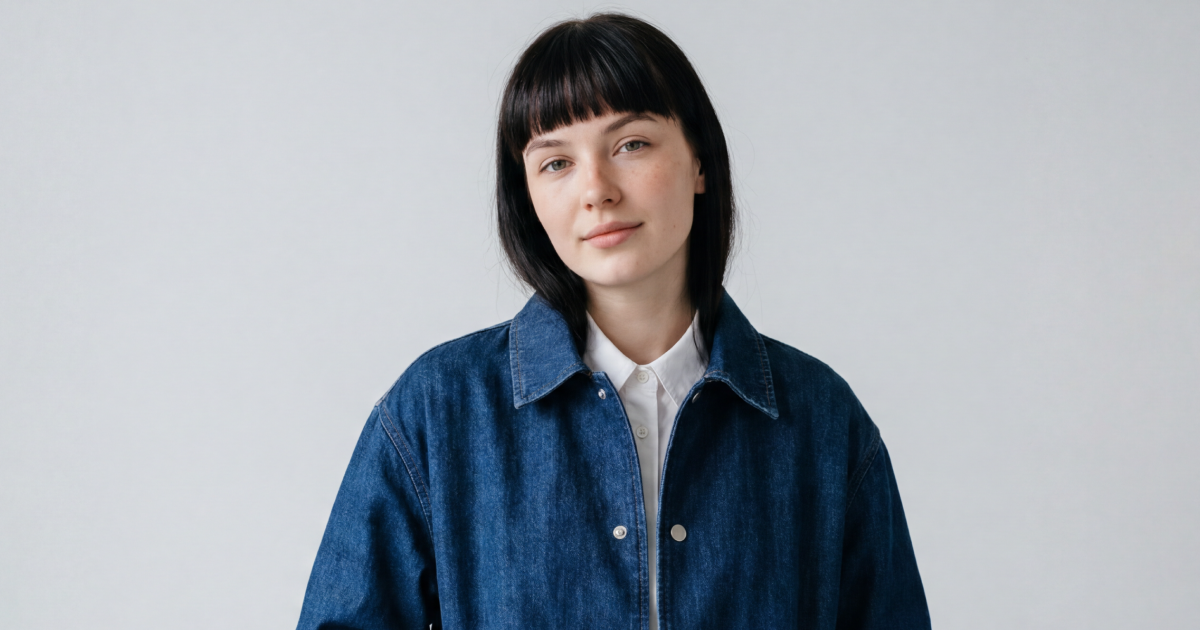
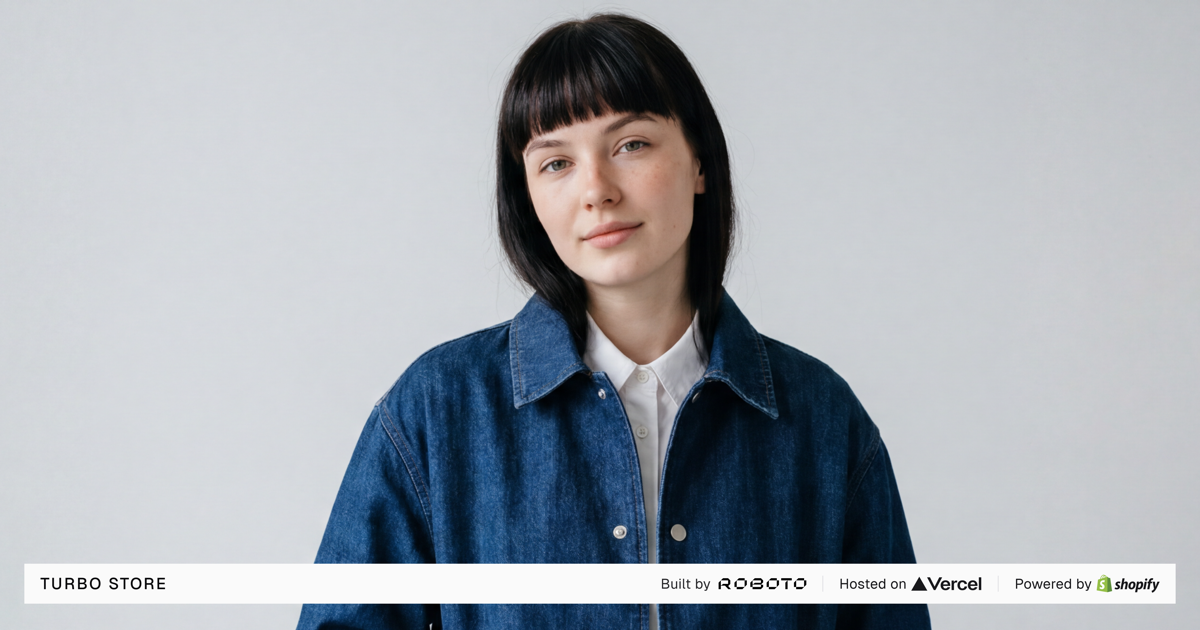
docs: sync README and CLAUDE.md with the repo

Changed region(s): [[0.0, 0.8746, 0.9867, 0.9651]]

diff --git a/CLAUDE.md b/CLAUDE.md
@@ -58,7 +58,7 @@ packages/
 1. **GROQ queries** defined with `defineQuery` in `packages/sanity/src/query.ts` — composable fragments for images, links, rich text, page builder blocks
 2. **`sanityFetch()`** from `packages/sanity/src/live.ts` (via `next-sanity/defineLive`) — used in RSC pages for data fetching with live preview support
 3. **Page Builder** (`apps/web/src/components/pagebuilder.tsx`) — client component mapping `_type` → React section component via `BLOCK_COMPONENTS` record. Uses `useOptimistic` from `@sanity/visual-editing` for live editing
-4. **Section components** in `apps/web/src/components/sections/` — `hero`, `cta`, `faq-accordion`, `feature-cards-with-icon`, `subscribe-newsletter`, `image-link-cards`
+4. **Section components** in `apps/web/src/components/sections/` — `hero`, `cta`, `collection-banner`, `editorial-two-up`, `explore-categories`, `faq-accordion`, `faq-categories`, `feature-cards-with-icon`, `featured-products`, `image-link-cards`, `layers-showcase`, `subscribe-newsletter` (plus `faq-entry`, a shared child of the two FAQ blocks)
 5. **Types** auto-generated: run `pnpm --filter studio type` → outputs to `packages/sanity/src/sanity.types.ts`
 
 ### Adding a New Page Builder Block
@@ -73,8 +73,8 @@ packages/
 
 ### Sanity Studio Structure
 
-- **Documents**: `blog`, `page`, `faq`, `author`, `product`, `collection`, `productVariant`, `redirect`
-- **Singletons**: `homePage`, `blogIndex`, `settings`, `footer`, `navbar`
+- **Documents**: `blog`, `page`, `faq`, `author`, `category`, `product`, `collection`, `productVariant`, `redirect`
+- **Singletons**: `homePage`, `blogIndex`, `collectionsIndex`, `settings`, `footer`, `navbar`, `promoBanner`
 - **Shopify objects**: `shopifyProduct`, `shopifyProductVariant`, `shopifyCollection`, `inventory`, `option`, `priceRange`, etc.
 - **Blueprint** (`sanity.blueprint.ts`): auto-redirect function — creates redirect documents on slug change
 
@@ -99,9 +99,14 @@ packages/
 
 ## Environment Variables
 
-**Web** (`apps/web/.env`):
+**Web** (`apps/web/.env`) — see `apps/web/.env.example`; all of these are validated in `packages/env/src/{client,server}.ts`, so a missing one fails the build rather than the request:
+
 - `NEXT_PUBLIC_SANITY_PROJECT_ID`, `NEXT_PUBLIC_SANITY_DATASET`, `NEXT_PUBLIC_SANITY_API_VERSION`, `NEXT_PUBLIC_SANITY_STUDIO_URL`
 - `SANITY_API_READ_TOKEN`, `SANITY_API_WRITE_TOKEN`
+- `SHOPIFY_STORE_DOMAIN`, `SHOPIFY_STOREFRONT_ACCESS_TOKEN` — required; `SHOPIFY_API_VERSION` defaults to `2025-01`
+- `NEXT_PUBLIC_STORE_CURRENCY` — ISO 4217, defaults to `GBP`
+- `NEXT_PUBLIC_SITE_URL` — canonical origin, no trailing slash. Checked _before_ the Vercel vars, so it also overrides the generated `*.vercel.app` URL. Required off Vercel: `getBaseUrl()` otherwise falls back to `localhost:3000` and every canonical, OG URL and sitemap entry ships pointing there
 
 **Studio** (`apps/studio/.env`):
+
 - `SANITY_STUDIO_PROJECT_ID`, `SANITY_STUDIO_DATASET`, `SANITY_STUDIO_TITLE`, `SANITY_STUDIO_PRESENTATION_URL`

diff --git a/README.md b/README.md
@@ -4,7 +4,9 @@ A production-ready headless commerce starter built with Shopify, Sanity, and Nex
 
 Built by [Roboto Studio](https://robotostudio.com/services/shopify) and used in production client builds.
 
-![Turbo Start Shopify](https://raw.githubusercontent.com/robotostudio/turbo-start-shopify/main/turbo-start-sanity-og.png)
+![Turbo Start Shopify](https://raw.githubusercontent.com/robotostudio/turbo-start-shopify/main/turbo-start-shopify-og.jpg)
+
+**[Live demo →](https://turbo-start-shopify-web.vercel.app)**
 
 [![Node.js](https://img.shields.io/badge/node-%3E%3D24.10-brightgreen)](https://nodejs.org/)
 [![pnpm](https://img.shields.io/badge/pnpm-11.24-orange)](https://pnpm.io/)
@@ -17,7 +19,7 @@ Built by [Roboto Studio](https://robotostudio.com/services/shopify) and used in 
 
 - **Monorepo with Turborepo** — shared packages, fast builds, one `pnpm dev` to run everything
 - **Next.js 16 App Router** — React Server Components, React Compiler, Turbopack, dynamic OG images
-- **Sanity Studio v5** — visual editing, live preview, page builder, auto-redirects on slug change
+- **Sanity Studio v6** — visual editing, live preview, page builder, auto-redirects on slug change
 - **Shopify Storefront API** — products, collections, cart, checkout, search
 - **Type-safe end-to-end** — auto-generated Sanity types, Zod env validation, strict TypeScript
 - **Tailwind CSS v4** — CSS-first config, OKLCH color tokens, dark mode, Shadcn components
@@ -40,7 +42,7 @@ Sanity CMS (pages, blog, navigation, SEO)
 ```
 apps/
   web/              → Next.js 16 frontend
-  studio/           → Sanity Studio v5
+  studio/           → Sanity Studio v6
 
 packages/
   env/              → T3 env validation (Zod)
@@ -137,6 +139,8 @@ Open [http://localhost:3000](http://localhost:3000) for the Next.js app and [htt
 | `SHOPIFY_STORE_DOMAIN` | Yes | Your Shopify store domain (e.g. `your-store.myshopify.com`) |
 | `SHOPIFY_STOREFRONT_ACCESS_TOKEN` | Yes | Shopify Storefront API public access token |
 | `SHOPIFY_API_VERSION` | No | Storefront API version (default: `2025-01`) |
+| `NEXT_PUBLIC_STORE_CURRENCY` | No | ISO 4217 code used to format prices (default: `GBP`) |
+| `NEXT_PUBLIC_SITE_URL` | Off Vercel | Canonical origin, no trailing slash (e.g. `https://example.com`). On Vercel it is inferred; anywhere else, canonicals and the sitemap fall back to `localhost:3000` without it |
 
 ### Sanity Studio (`apps/studio/.env`)
 
